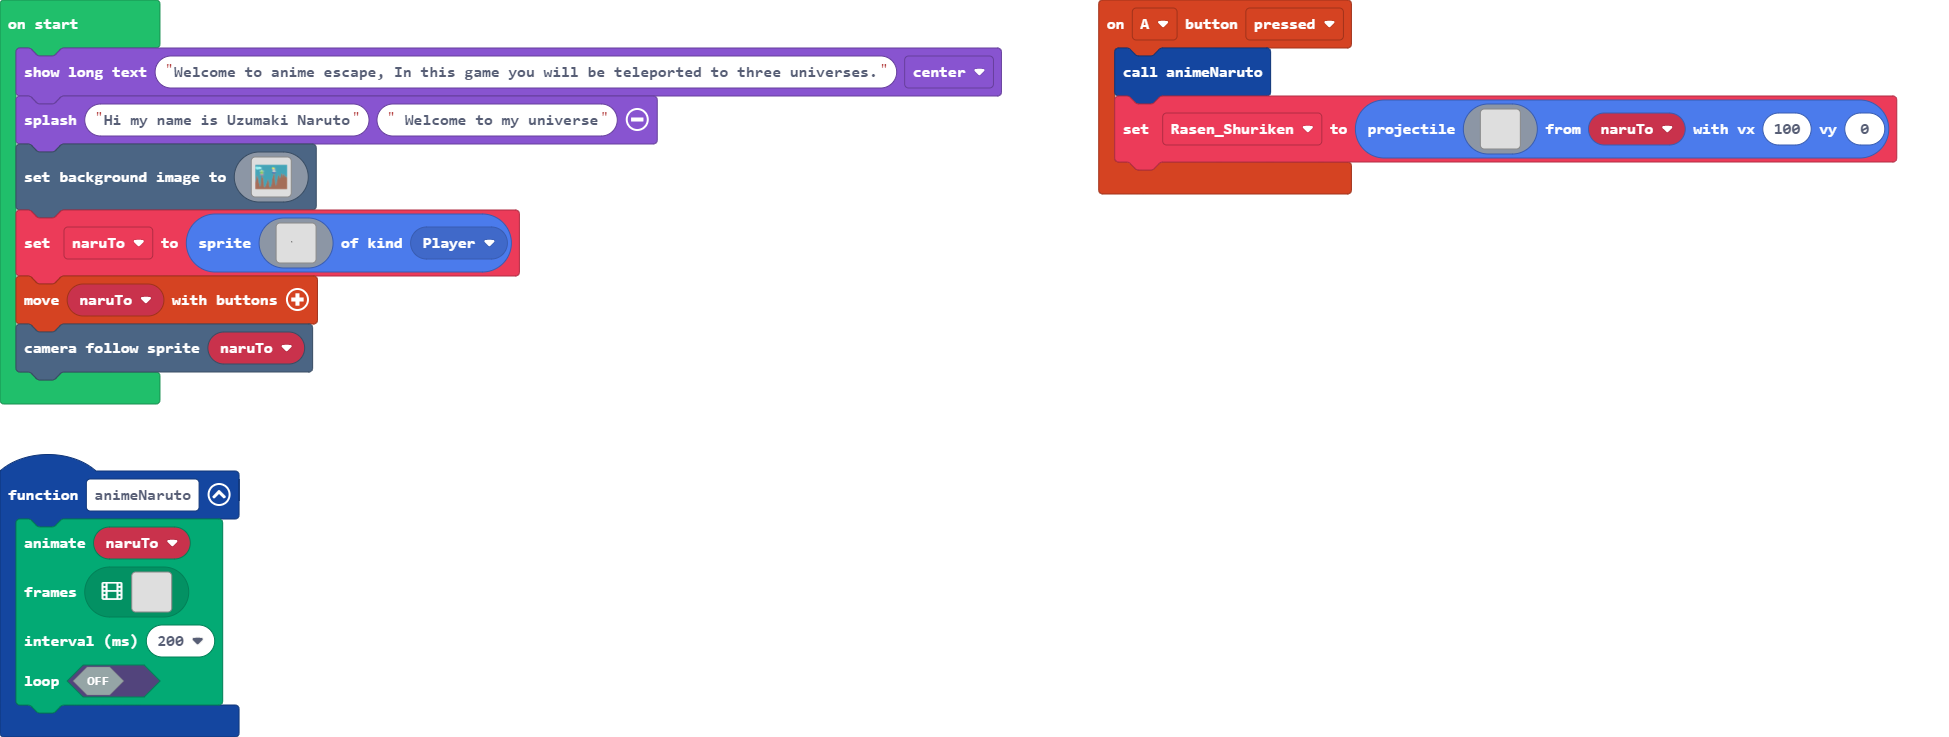
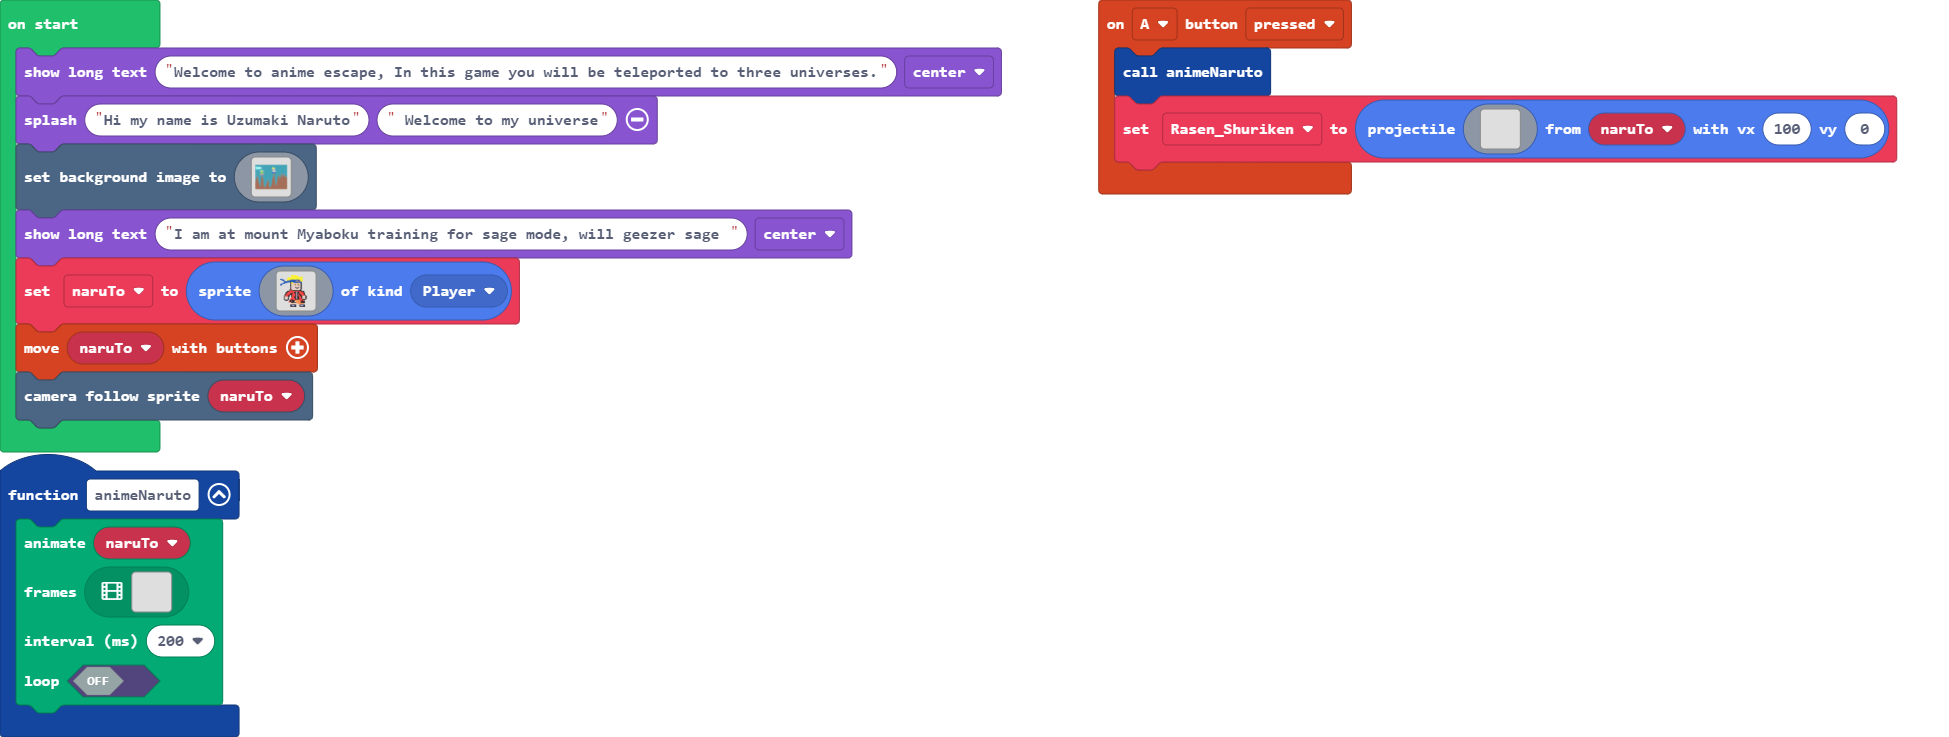
Update main.blocks, main.ts, images.g.jres, images.g.ts

Changed region(s): [[0.0, 0.2809, 0.4618, 0.6242]]

diff --git a/images.g.ts b/images.g.ts
@@ -3,48 +3,6 @@ namespace myImages {
 
     helpers._registerFactory("image", function(name: string) {
         switch(helpers.stringTrim(name)) {
-            case "Naruto":return img`
-..............555.55....................
-..............55555555..................
-..............555555555.5..5............
-..........555555555555555555............
-.........5555555555555555555............
-888.......555555555555555555............
-..888...55555888888888888555............
-....88...88888888888bbbfbb55............
-.....888888888888888bfbbfb8.............
-.....8888....f5558888888888.............
-...888.......f55ddddddddddf.............
-.88..........f5ddd45dd45ddf.............
-88...........fdddd4fdd4fddf.............
-.............fddddddddddddf.............
-.............fddddddddddddf.............
-.............fdddddfdddfddf.............
-.............fddddddfffdddf.............
-.............fddddddddddddf.............
-............f2fddddddddddf..............
-............f22ffffffffffff.............
-.........fff22222222222222ffff..........
-........ff22222222ffbbff22222f..........
-.......ff222222f22ffbbff22222ff.........
-.......f22222fff222fbbf2f22222f.........
-......ff2222fff2222fbbf2ff2222f.........
-......f2222f..f2222fbbf22ff2222f........
-.....f2222ff..f2222fbbf222ffddddf.......
-.....fddddf...f222ffbbff222fddddf.......
-.....fddddf...2222ffbbff222fddddf.......
-.....fddddf..222222fbbff222fddddf.......
-.....fddddf..222222fffff2222ffff........
-......ffff..2f2ff2244444222222..........
-............fffffff44444422ff2f.........
-...........22f2fff11444444fffff.........
-..............ffffff444444fffff.........
-.............1111111..4444444...........
-.............4444444...4444444..........
-.............f88888f....488888f.........
-.............f8ddd8f....f8ddd8f.........
-.............fffffff.....ffffff.........
-`;
             case "%#vn!5:xLp4s?ST`qYp:":
             case "Pain":return img`
 ....................44.444..............
@@ -87,6 +45,48 @@ namespace myImages {
 ..........ffffff....fffffff.............
 .........fddddff....ffdddff.............
 .........ffffff.....fffffff.............
+`;
+            case "Naruto":return img`
+..............555.55....................
+..............55555555..................
+..............555555555.5..5............
+..........555555555555555555............
+.........5555555555555555555............
+888.......555555555555555555............
+..888...55555888888888888555............
+....88...88888888888bbbfbb55............
+.....888888888888888bfbbfb8.............
+.....8888....f5558888888888.............
+...888.......f55ddddddddddf.............
+.88..........f5ddd45dd45ddf.............
+88...........fdddd4fdd4fddf.............
+.............fddddddddddddf.............
+.............fddddddddddddf.............
+.............fdddddfdddfddf.............
+.............fddddddfffdddf.............
+.............fddddddddddddf.............
+............f2fddddddddddf..............
+............f22ffffffffffff.............
+.........fff22222222222222ffff..........
+........ff22222222ffbbff22222f..........
+.......ff222222f22ffbbff22222ff.........
+.......f22222fff222fbbf2f22222f.........
+......ff2222fff2222fbbf2ff2222f.........
+......f2222f..f2222fbbf22ff2222f........
+.....f2222ff..f2222fbbf222ffddddf.......
+.....fddddf...f222ffbbff222fddddf.......
+.....fddddf...2222ffbbff222fddddf.......
+.....fddddf..222222fbbff222fddddf.......
+.....fddddf..222222fffff2222ffff........
+......ffff..2f2ff2244444222222..........
+............fffffff44444422ff2f.........
+...........22f2fff11444444fffff.........
+..............ffffff444444fffff.........
+.............1111111..4444444...........
+.............4444444...4444444..........
+.............f88888f....488888f.........
+.............f8ddd8f....f8ddd8f.........
+.............fffffff.....ffffff.........
 `;
         }
         return null;

diff --git a/main.ts b/main.ts
@@ -170,47 +170,7 @@ scene.setBackgroundImage(img`
     eeeeeeeeeeeeeeeeeeeeeeeeeeeeeeeeeeeeeeeeeeeeeeeeeeeeeeeeeeeeeeeeeeeeeeeeeeeeeeeeeeeeeeeeeeeeeeeeeeeeeeeeeeeeeeeeeeeeeeeeeeeeeeeeeeeeeeeeeeeeeeeeeeeeeeeeeeeeeeee
     eeeeeeeeeeeeeeeeeeeeeeeeeeeeeeeeeeeeeeeeeeeeeeeeeeeeeeeeeeeeeeeeeeeeeeeeeeeeeeeeeeeeeeeeeeeeeeeeeeeeeeeeeeeeeeeeeeeeeeeeeeeeeeeeeeeeeeeeeeeeeeeeeeeeeeeeeeeeeeee
     `)
-naruTo = sprites.create(img`
-    ........................................
-    ........................................
-    ........................................
-    ........................................
-    ........................................
-    ........................................
-    ........................................
-    ........................................
-    ........................................
-    ........................................
-    ........................................
-    ........................................
-    ........................................
-    ........................................
-    ........................................
-    ........................................
-    ........................................
-    ........................................
-    ..............f.........................
-    ........................................
-    ........................................
-    ........................................
-    ........................................
-    ........................................
-    ........................................
-    ........................................
-    ........................................
-    ........................................
-    ........................................
-    ........................................
-    ........................................
-    ........................................
-    ........................................
-    ........................................
-    ........................................
-    ........................................
-    ........................................
-    ........................................
-    ........................................
-    ........................................
-    `, SpriteKind.Player)
+game.showLongText("I am at mount Myaboku training for sage mode, will geezer sage ", DialogLayout.Center)
+naruTo = sprites.create(assets.image`Naruto`, SpriteKind.Player)
 controller.moveSprite(naruTo)
 scene.cameraFollowSprite(naruTo)
